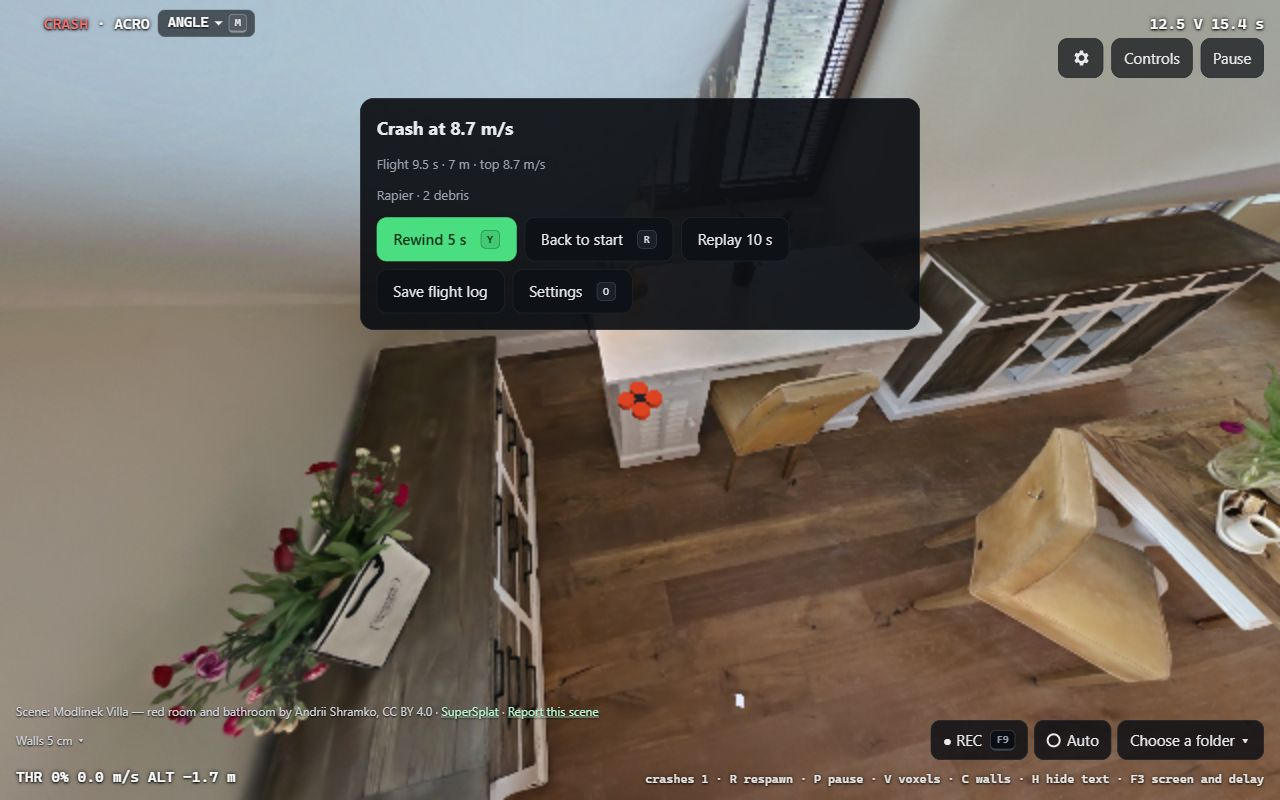
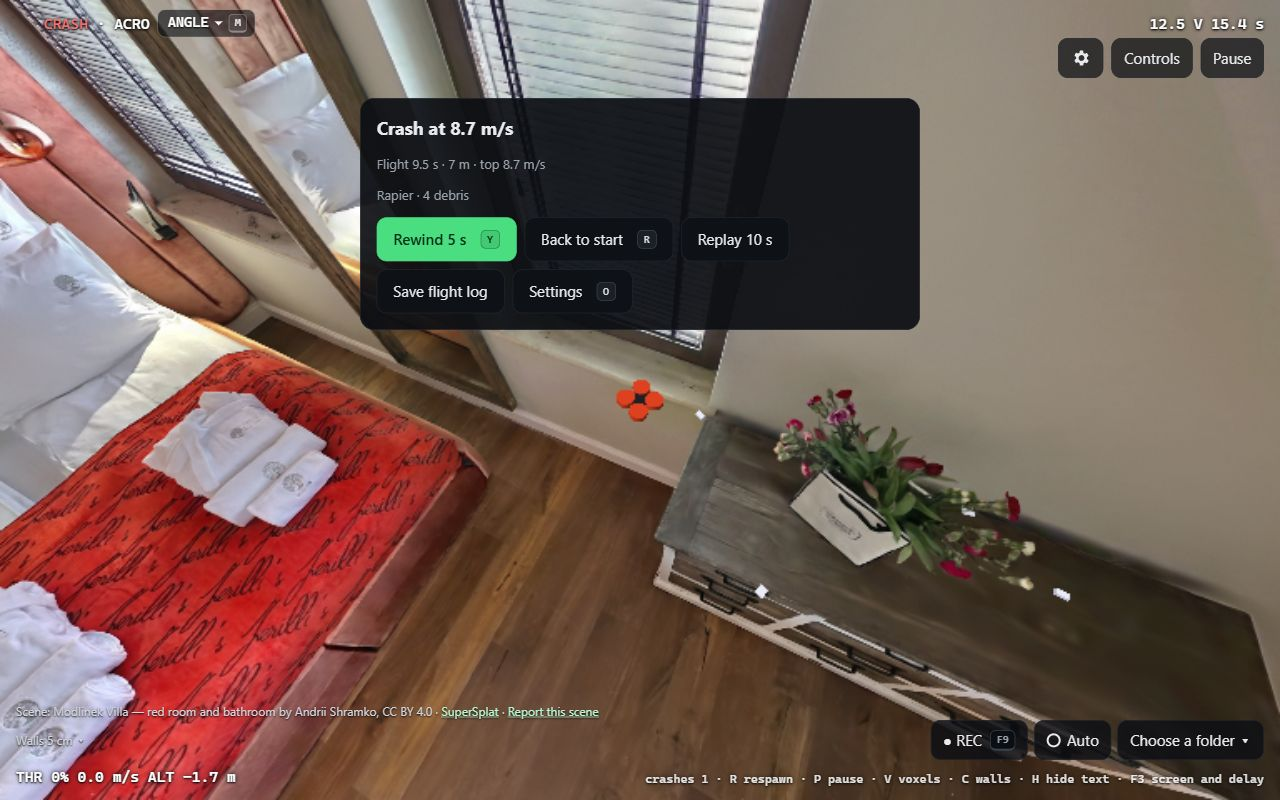
evidence: B12 passes in system Chrome on the dev server after the bot fix (3 of 3), B9 B11 B13 B15 B16 pass
B12 at 2f77223 (LOCAL_FLY, 127.0.0.1:5322, render on): first half crashes at 8.668 m/s (as before),
control 0.75 m/s dash: 498 contacts, 0 crashes, in 3 runs out of 3. B6's scenes all render (9 of 9
ready, luminance std 0.156-0.237) but its Russian error-message check cannot pass on the dev server
(LOCAL_FLY serves /fly/ only, the page stays English): B6's evidence stays the release-build run.
accept-fly.ts: the B12 comment says why the page crashed after the pinned fix.

diff --git a/tools/bench/src/accept-fly.ts b/tools/bench/src/accept-fly.ts
@@ -355,6 +355,9 @@ if (want('B11')) {
 // v0.3: with ?set.respawn.auto=0 (the crash panel and its respawn button, as v0.2); automatic
 // respawn is accept-v03-respawn.ts. The control's slow dash crashed in wave 1: a craft pinned in a
 // corner gathered speed in a frozen pose (sim.ts pinnedContacts, evidence v03-w2-2-model-why.json).
+// In the page it still crashed after that: the director's stuck-flipped rewind (unstuck stays on)
+// put the craft 0.41 m before the wall while the bot's dash reference had run 10 m past it
+// (bot.ts dashLeadS, sim-core test b12-rewind.test.ts; b12-capture.ts saves the page's log).
 if (want('B12')) {
     await page.goto(flyLogic('en', 'scene=39e63ce9&simradio=scenario&nowarn=1&set.respawn.auto=0'));
     await waitLogic(page, 180000);
